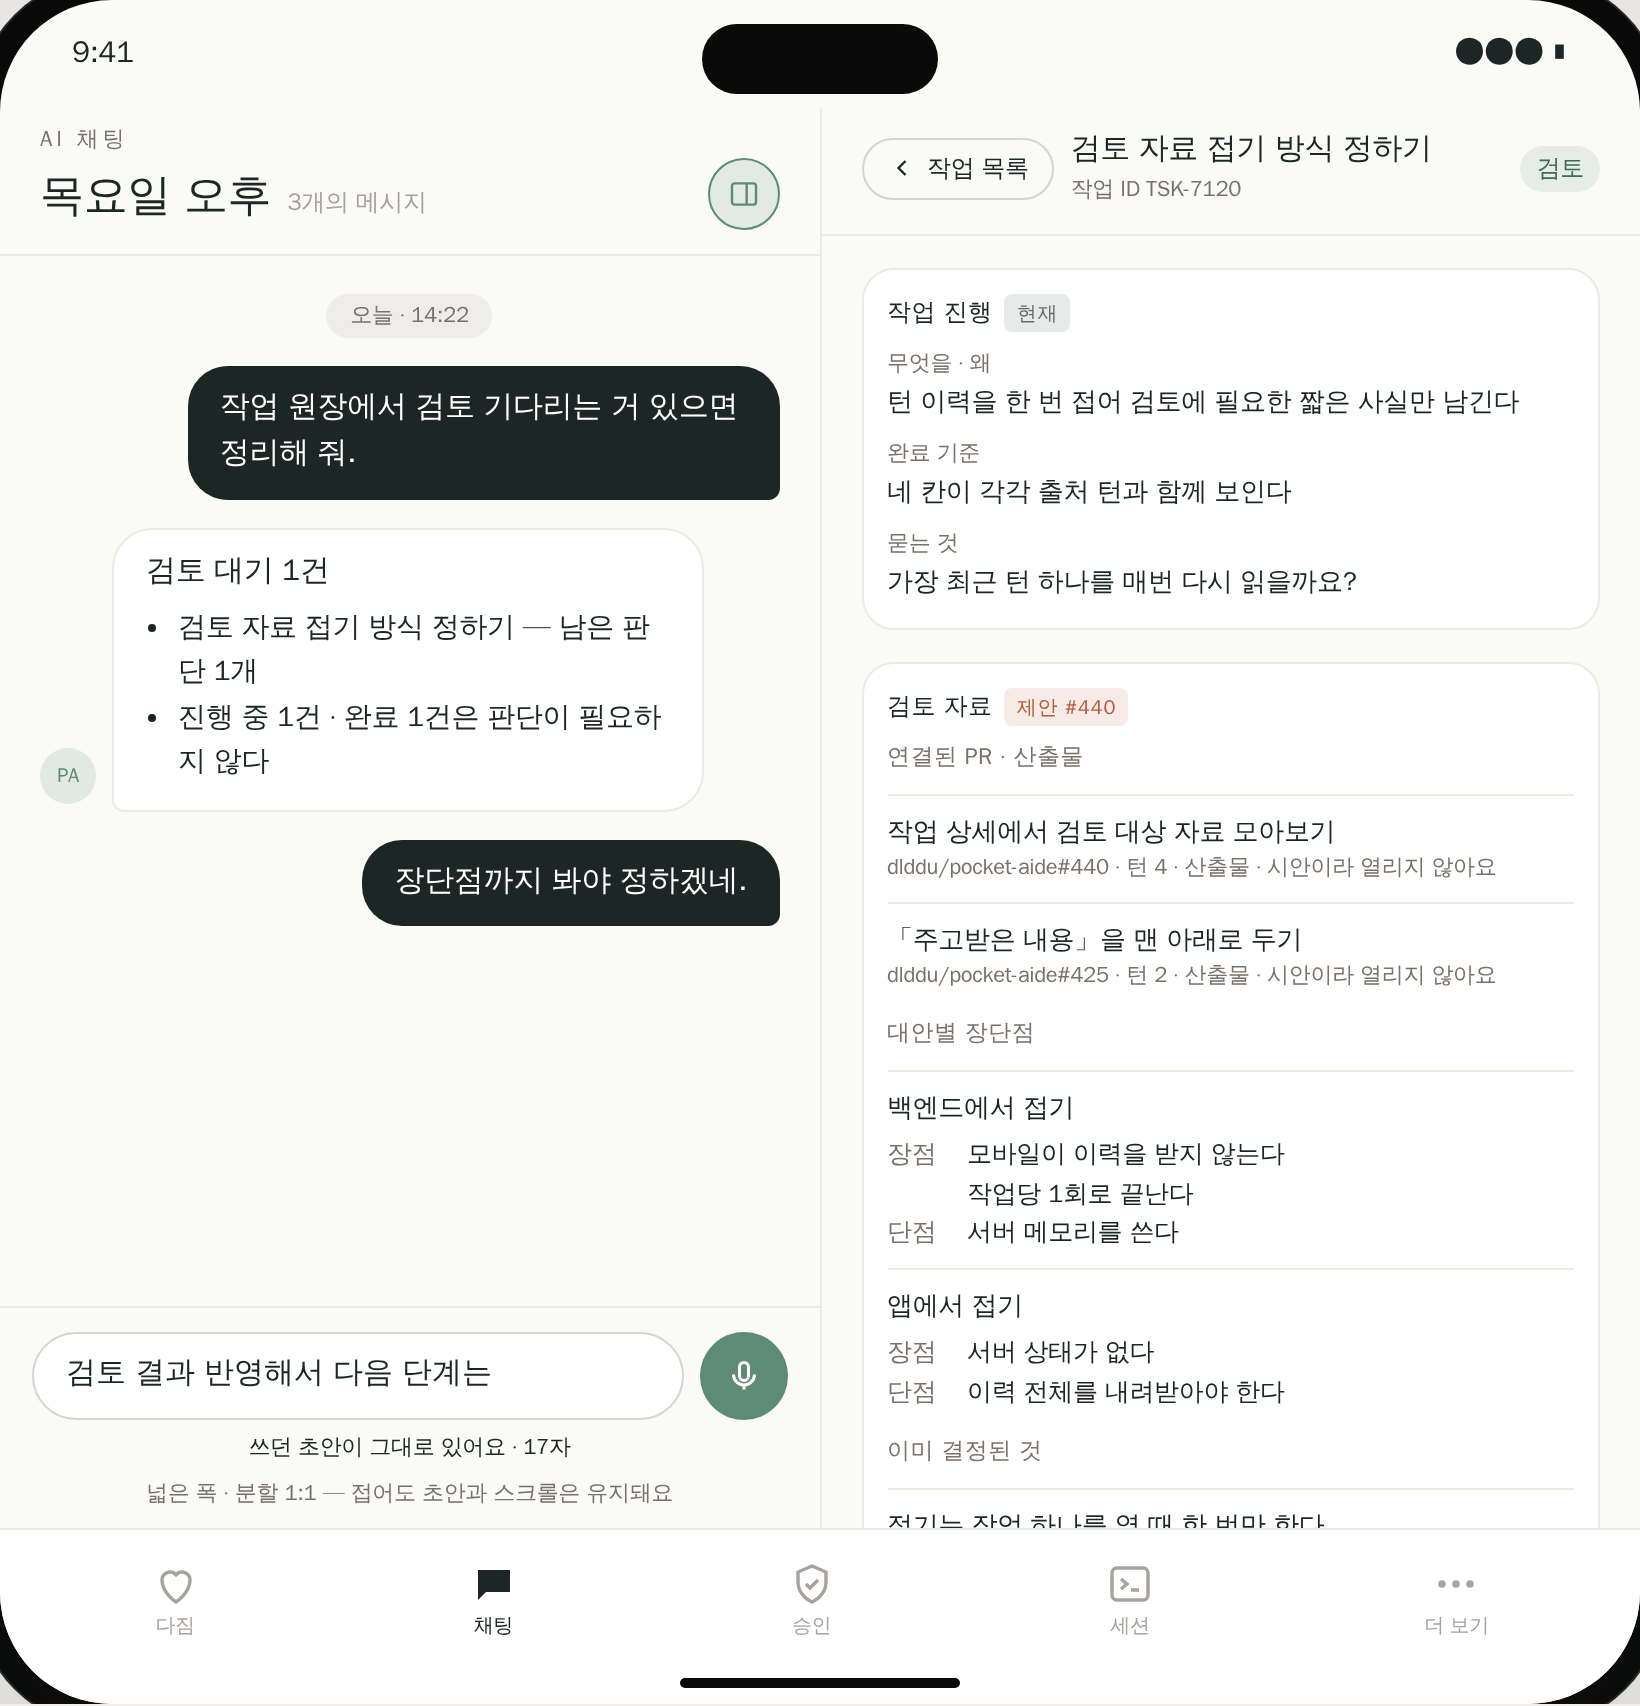
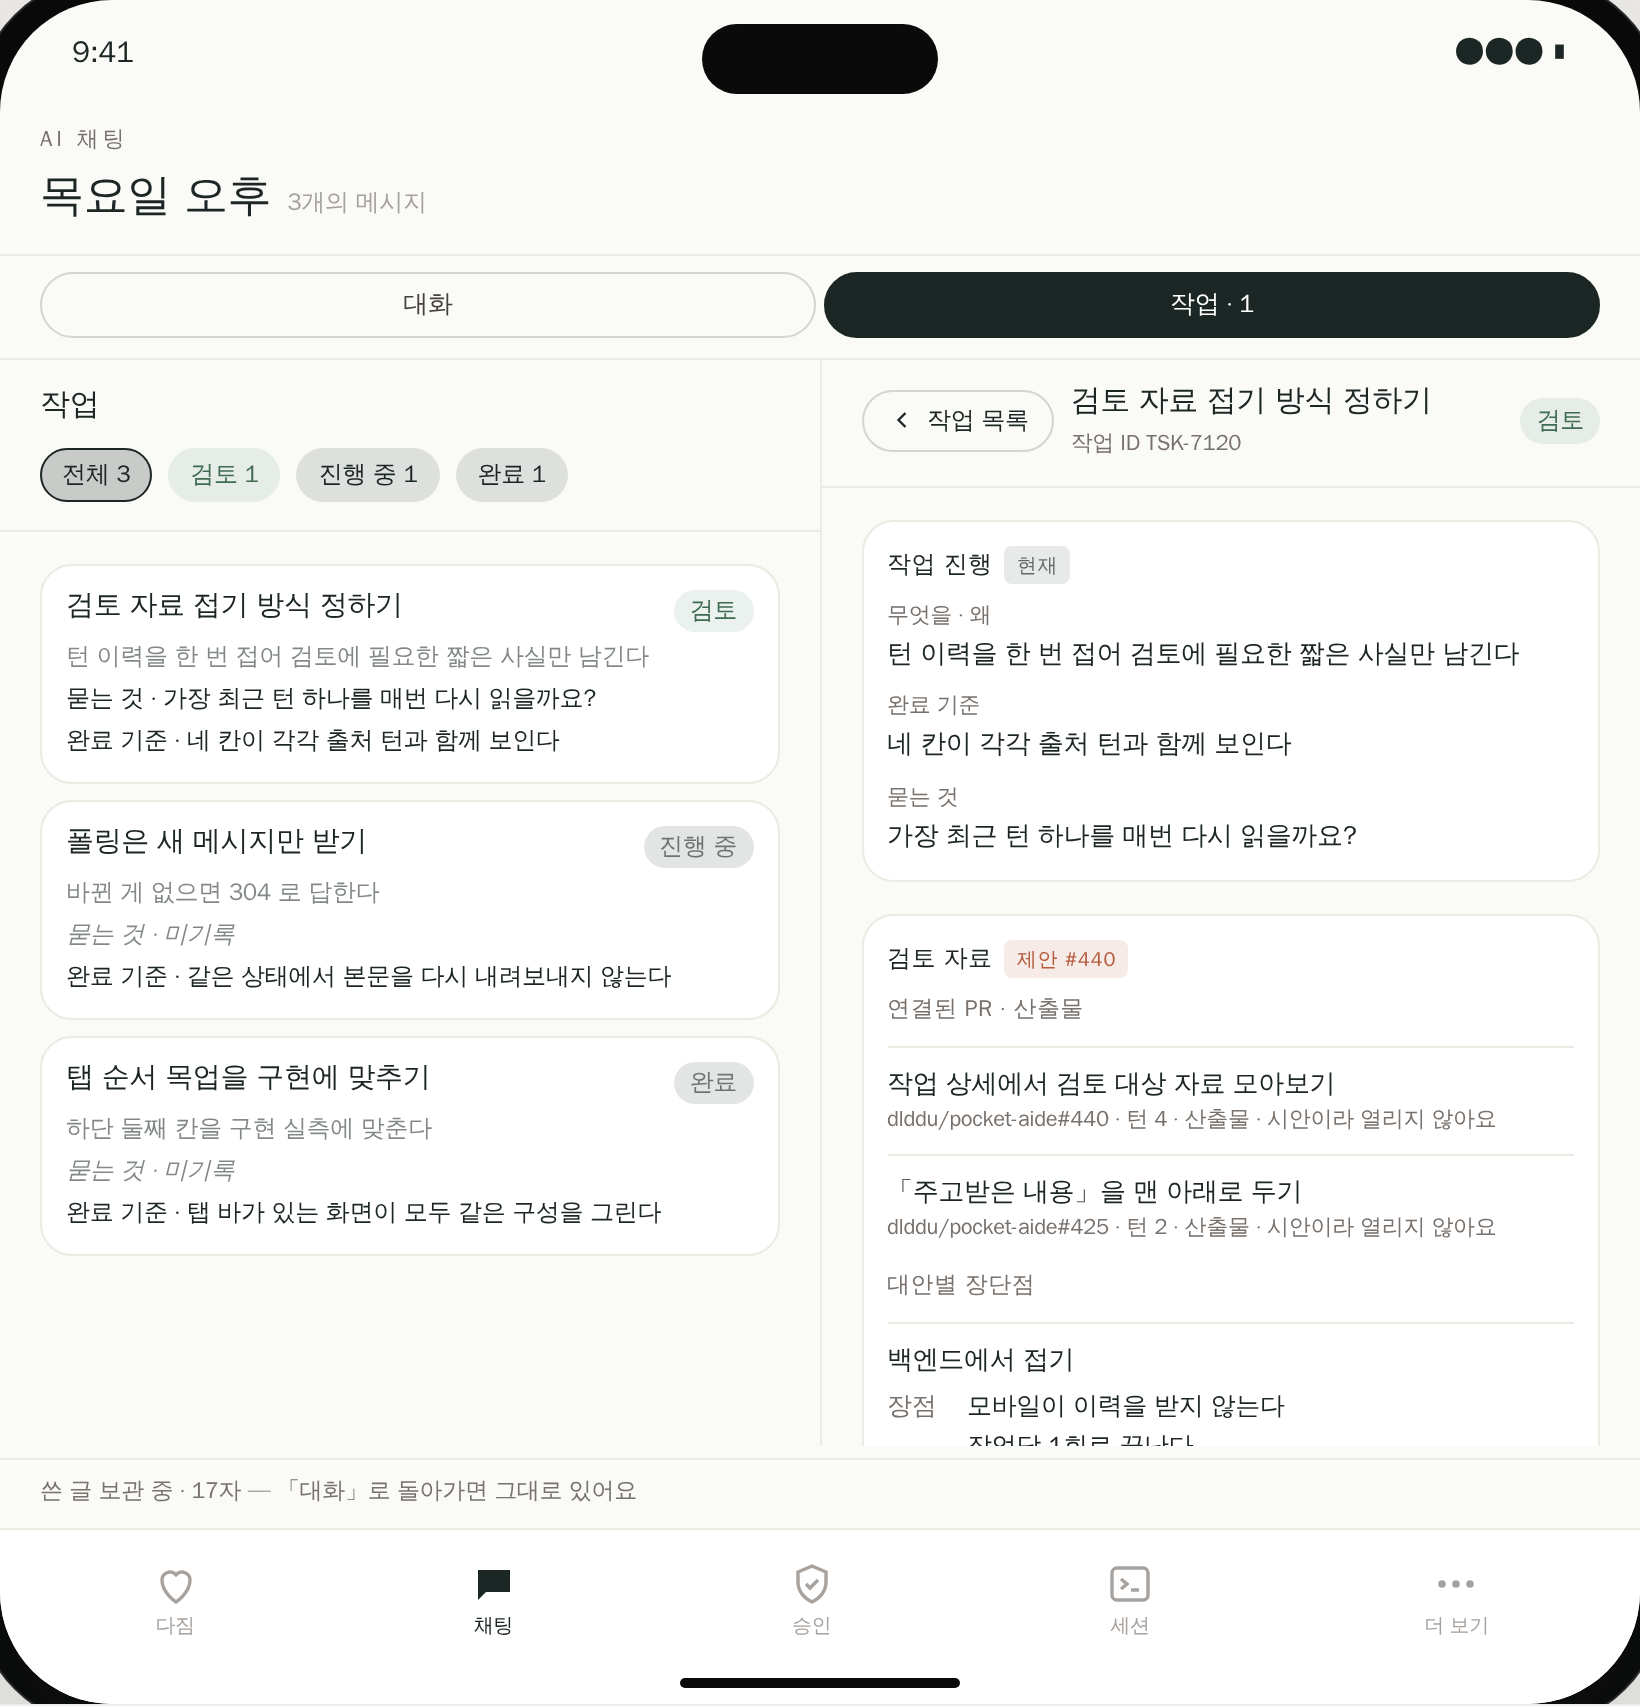
docs(proposals): 넓은 폭에서도 세 안이 갈라지게 고친다
넓은 폭 렌더 3장이 바이트까지 같았다 — 분기가 안을 보지 않고
현재 구현의 분할만 그렸기 때문이다. 같은 화면을 세 번 보여 주면
비교가 되지 않는다.

- A: 대화 | 원장(목록→상세) — §6.2 의 주/보조 그대로
- B: 「작업」 모드면 목록 | 상세가 분할을 다 쓰고 대화는 물러난다
- C: 오른쪽이 레일 + 상세로 바로, 목록 단계가 없다

각 안의 대가도 이에 맞춰 문서에 적었다.

diff --git a/docs/proposals/chat-layout-ia/index.html b/docs/proposals/chat-layout-ia/index.html
@@ -696,15 +696,44 @@ function render() {
   let inner = "";
 
   if (w === "wide") {
-    const right = S.panelOpen
-      ? `<div class="pane-rule" aria-hidden="true"></div><div class="pane">${
+    // 넓은 폭에서도 세 안은 서로 다르게 갈라진다.
+    //  A — 대화가 주 창, 오른쪽은 목록에서 상세로 한 단계 들어간다(현재 구현과 같은 모습).
+    //  B — 모드 전환이 폭과 무관하다. 「작업」 모드에서는 목록|상세가 분할을 통째로 차지하고 대화는 물러난다.
+    //  C — 입력창이 붙박인 채, 오른쪽은 목록을 건너뛰고 레일 + 상세로 바로 간다.
+    const convPane = (hint) => `<div class="pane">
+        ${chatHeader({ panelToggle:true })}${messages()}${composer(hint)}</div>`;
+    const rule = `<div class="pane-rule" aria-hidden="true"></div>`;
+
+    if (sc === "B") {
+      const onConv = S.nav === "conv";
+      const seg = `<div class="seg" role="tablist" aria-label="채팅 탭 안의 모드">
+          <button class="seg-btn" role="tab" aria-selected="${onConv}" data-act="seg" data-v="conv">대화</button>
+          <button class="seg-btn" role="tab" aria-selected="${!onConv}" data-act="seg" data-v="list">작업 ${attnTasks().length ? "· " + attnTasks().length : ""}</button>
+        </div>`;
+      const body = onConv
+        ? `${messages()}${composer("「작업」으로 가면 대화는 물러나요 — 초안은 보관돼요")}`
+        : `<div class="panes">
+             <div class="pane">${ledger({})}</div>${rule}
+             <div class="pane">${S.nav === "detail" && task(S.openId)
+               ? detail(task(S.openId), { backLabel:"작업 목록" })
+               : `<div class="ledger"><div class="ledger-body"><div class="task-note unrec" style="text-align:center;padding:32px 0">왼쪽에서 작업을 고르면 여기에서 읽어요.</div></div></div>`}</div>
+           </div>`;
+      const kept = !onConv && S.draft.trim()
+        ? `<div class="turns-state" style="padding:8px 20px;border-top:1px solid var(--rule)">쓴 글 보관 중 · ${S.draft.trim().length}자 — 「대화」로 돌아가면 그대로 있어요</div>` : "";
+      inner = `${chatHeader({})}${seg}${body}${kept}`;
+    } else if (sc === "C") {
+      const right = S.panelOpen ? `${rule}<div class="pane">
+          ${railRow()}
+          ${S.nav === "list"
+            ? ledger({})
+            : detail(task(S.openId) || TASKS[0], { backLabel:"전체 작업" })}</div>` : "";
+      inner = `<div class="panes">${convPane("입력창은 늘 왼쪽에 — 오른쪽이 바뀌어도 초안은 그대로예요")}${right}</div>`;
+    } else {
+      const right = S.panelOpen ? `${rule}<div class="pane">${
           S.nav === "detail" && task(S.openId) ? detail(task(S.openId), { backLabel:"작업 목록" }) : ledger({})
-        }</div>`
-      : "";
-    const leftRail = sc === "C" && !S.panelOpen ? railRow() : "";
-    inner = `<div class="panes"><div class="pane">
-        ${chatHeader({ panelToggle:true })}${leftRail}${messages()}${composer("넓은 폭 · 분할 1:1 — 접어도 초안과 스크롤은 유지돼요")}
-      </div>${right}</div>`;
+        }</div>` : "";
+      inner = `<div class="panes">${convPane("넓은 폭 · 분할 1:1 — 접어도 초안과 스크롤은 유지돼요")}${right}</div>`;
+    }
   } else if (sc === "A") {
     const sheet = (w === "narrow" && S.nav !== "conv") ? `
       <div class="scrim" aria-hidden="true"></div>
@@ -804,7 +833,12 @@ document.addEventListener("click", (e) => {
     S.width = v;
     if (v === "base") S.nav = "conv";
     else if (v === "narrow") { S.nav = S.scheme === "C" ? "detail" : "list"; if (S.scheme === "C") { S.openId = attnTasks()[0].id; resetTask(); } }
-    else { S.panelOpen = true; S.nav = S.nav === "detail" ? "detail" : "list"; }
+    else {
+      // 넓은 폭의 출발점도 안마다 다르다: C 는 목록을 건너뛰고 상세에서 시작한다.
+      S.panelOpen = true;
+      if (S.scheme === "C") { S.openId = S.openId || attnTasks()[0].id; S.nav = "detail"; }
+      else S.nav = S.nav === "detail" ? "detail" : "list";
+    }
     render(); return;
   }
   if (act === "open-ledger") { S.width = "narrow"; S.nav = "list"; render(); return; }

diff --git a/docs/proposals/chat-layout-ia/README.md b/docs/proposals/chat-layout-ia/README.md
@@ -50,11 +50,14 @@
 
 ## 세 안 한 줄 차이
 
-| | 원장에 어떻게 들어가나 | 동시에 보이는 것 | 초안으로 어떻게 돌아오나 |
-|---|---|---|---|
-| **A · 대화 중심 + 원장 시트** | 헤더 「작업 N」 칩 → 대화 위로 시트가 올라온다 | 대화 일부 + **입력창** + 원장 | 시트를 닫으면 끝. 초안은 내내 **보인다** |
-| **B · 원장 중심 목록/상세** | 세그먼트 「대화 \| 작업」으로 화면을 통째로 바꾼다 | 원장 **하나만** (전체 폭) | 「대화」 세그먼트로 복귀. 초안은 보관되지만 **안 보인다** |
-| **C · 초안 고정 + 작업 레일** | 대화 위 레일의 칩 → 목록을 건너뛰고 **상세로 바로** | 상세 + **입력창**(붙박이) | 「대화로」 **1탭**. 입력창은 한 번도 안 사라진다 |
+| | 원장에 어떻게 들어가나 | 좁은 폭에서 동시에 보이는 것 | 넓은 폭(820dp)의 분할 | 초안으로 어떻게 돌아오나 |
+|---|---|---|---|---|
+| **A · 대화 중심 + 원장 시트** | 헤더 「작업 N」 칩 → 대화 위로 시트가 올라온다 | 대화 일부 + **입력창** + 원장 | 대화 \| 원장(목록→상세 한 단계) — **현재 구현과 같은 모습** | 시트를 닫으면 끝. 초안은 내내 **보인다** |
+| **B · 원장 중심 목록/상세** | 세그먼트 「대화 \| 작업」으로 화면을 통째로 바꾼다 | 원장 **하나만** (전체 폭) | 「작업」 모드면 **목록 \| 상세**가 분할을 다 쓰고 대화는 물러난다 | 「대화」 세그먼트로 복귀. 초안은 보관되지만 **안 보인다** |
+| **C · 초안 고정 + 작업 레일** | 대화 위 레일의 칩 → 목록을 건너뛰고 **상세로 바로** | 상세 + **입력창**(붙박이) | 대화+입력창 \| 레일+**상세 바로**(목록 단계 없음) | 「대화로」 **1탭**. 입력창은 한 번도 안 사라진다 |
+
+세 안은 넓은 폭에서도 갈라진다. A 만 §6.2 의 「주 내용 왼쪽 · 보조 오른쪽」을 그대로 따르고,
+B 는 분할 자체를 원장에 내주며, C 는 오른쪽 창에서 목록 단계를 없앤다.
 
 ---
 
@@ -100,12 +103,13 @@
 **장점**
 - 좁은 폭에서도 상세가 **전체 폭**을 받아 장단점·결정·턴 이력이 제대로 읽힌다 — 긴 검토에 가장 강하다.
 - 원장이 1급 시민이라 작업이 많을 때 상태 필터로 훑고 걸러내기 쉽다.
-- 넓은 폭에서는 세그먼트가 사라지고 1:1 분할로 자연스럽게 승격된다 (현재 구현과 같은 모습).
+- 넓은 폭에서는 분할을 통째로 원장에 내준다 — 왼쪽 목록, 오른쪽 상세. 다음 작업을 고르면서 지금 작업을 읽을 수 있다.
 
 **대가**
 - 대화가 화면에서 **완전히 사라져**, 돌아오기가 명시적 전환 동작이 된다.
 - 초안이 안 보이는 동안 불안이 남는다 — 그래서 작업 쪽 하단에 「쓰던 글 보관 중 · N자」를 명시했다(렌더 참고). 라벨로 메우는 것이지 구조로 메우는 것이 아니다.
 - 대화와 작업을 자주 교차하면 전환 횟수가 가장 많다.
+- 넓은 폭에서도 「작업」 모드면 대화가 보이지 않는다 — 세 안 중 유일하게 §6.2 의 「대화 + 보조 창」 모양을 벗어난다.
 
 **추천 상황** — 검토(review) 작업이 많고 상세를 길게 읽어야 하는 경우. 특히 **#440 의 「검토 자료」가 병합된다면** 그 네 칸을 가장 잘 보여주는 안이다.
 
@@ -132,6 +136,7 @@
 - 전체 원장을 훑는 길이 「전체 작업」 뒤로 한 단계 밀린다 — 완료·진행 작업 탐색은 부차적이 된다.
 - 상단 레일이 세로 공간을 상시 차지해 보이는 메시지가 줄어든다.
 - 레일에 올릴 작업이 늘면 가로 스크롤이 길어져 끝쪽이 묻힌다.
+- 넓은 폭에서도 오른쪽이 상세로 바로 가므로, 원장 전체를 보려면 「전체 작업」을 한 번 거쳐야 한다.
 
 **추천 상황** — 대화와 작업 판단을 빠르게 교차하는 경우. 원장이 「할 일 목록」이 아니라 **「지금 막힌 것 알림」**으로 쓰일 때.
 
